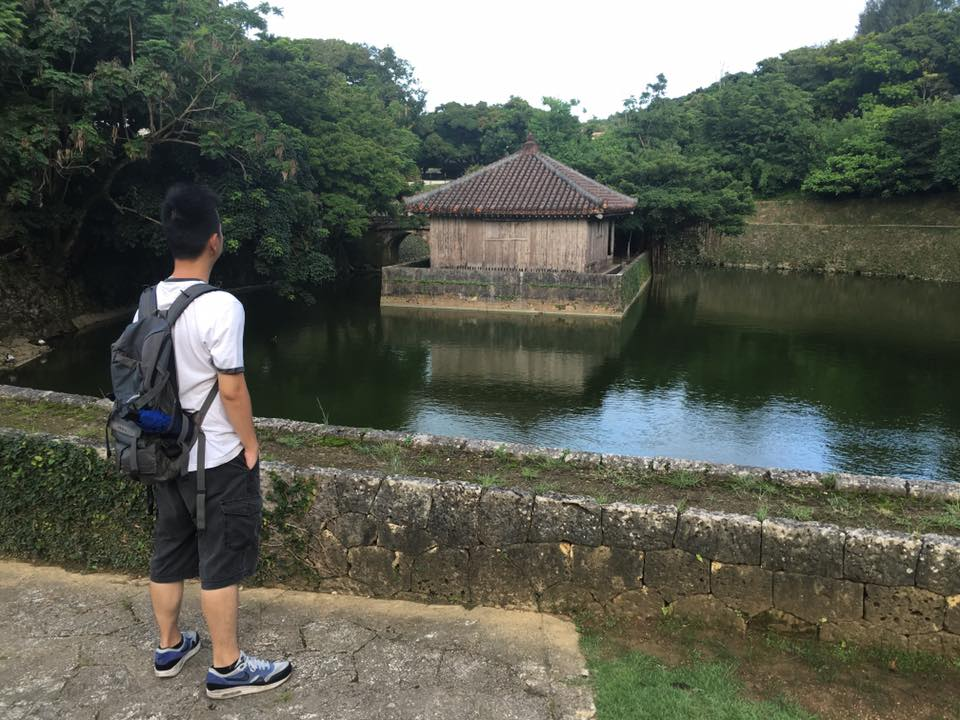
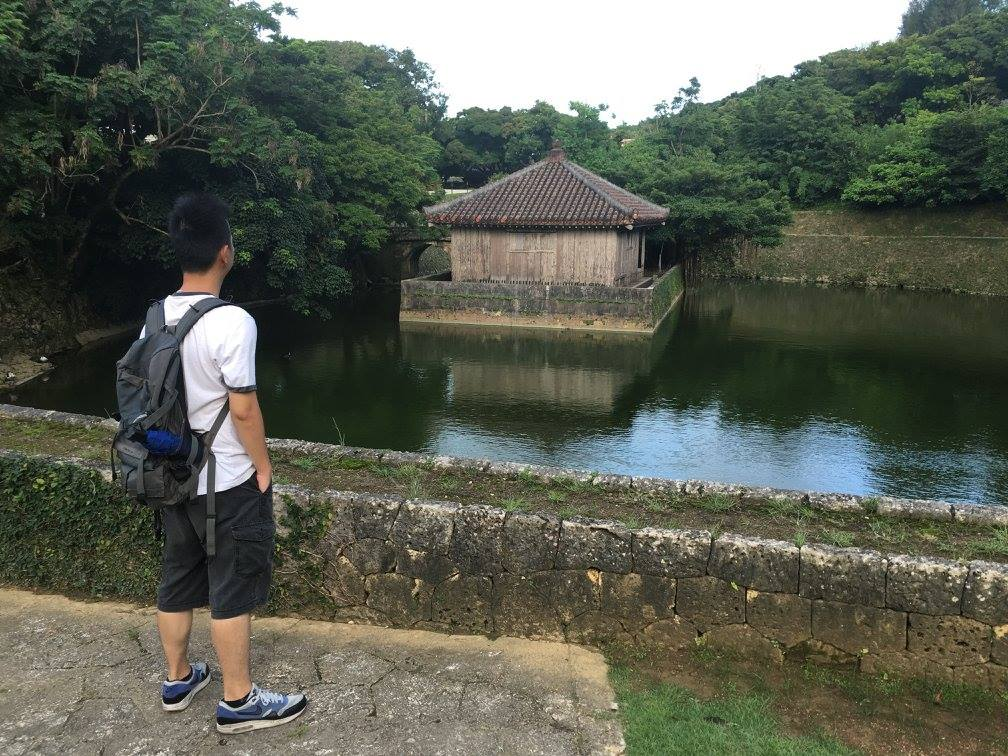
Fix bugs and make main image responsive by using different images

diff --git a/index.html b/index.html
@@ -20,9 +20,13 @@
 
       <hr id="hline1" class="hline">
 
-      <section id="main-picture">
-        <img id="main-picture-image" src="images/banner.jpg" alt="Danny Siu's banner" >
-      </section>
+      <!-- Use diferent images for different pixels -->
+      <picture id="main-picture">
+        <source media="(max-width: 600px)" srcset="images/banner_narrow.png">
+        <source media="(max-width: 800px)" srcset="images/banner_vertical.png">
+        <img id="main-picture-image" src="images/banner.jpg" alt="Danny Siu's
+                                                             banner">
+      </picture>
       <section id="featured-work">
         <h2 id="featured-work-title">Featured Work</h2>
         <article id="ruby-number-theory" class="project">

diff --git a/css/main.css b/css/main.css
@@ -22,7 +22,6 @@ body {
 header {
   width: auto;
   margin: 0 auto;  /* Make the header center */
-  height: 110px;
   text-align: center;
   order: 1;
 }
@@ -40,11 +39,6 @@ hr {
 
 #logo {
   max-width: 130px;
-  float: left;
-}
-
-#name-and-job {
-  float: right;
 }
 
 #name {
@@ -103,6 +97,12 @@ footer {
 
   .fa-linkedin {
     color: #0084bf;
+  }
+}
+
+@media screen and (min-width: 400px) {
+  #name-and-job {
+    float: right;
   }
 }
 
